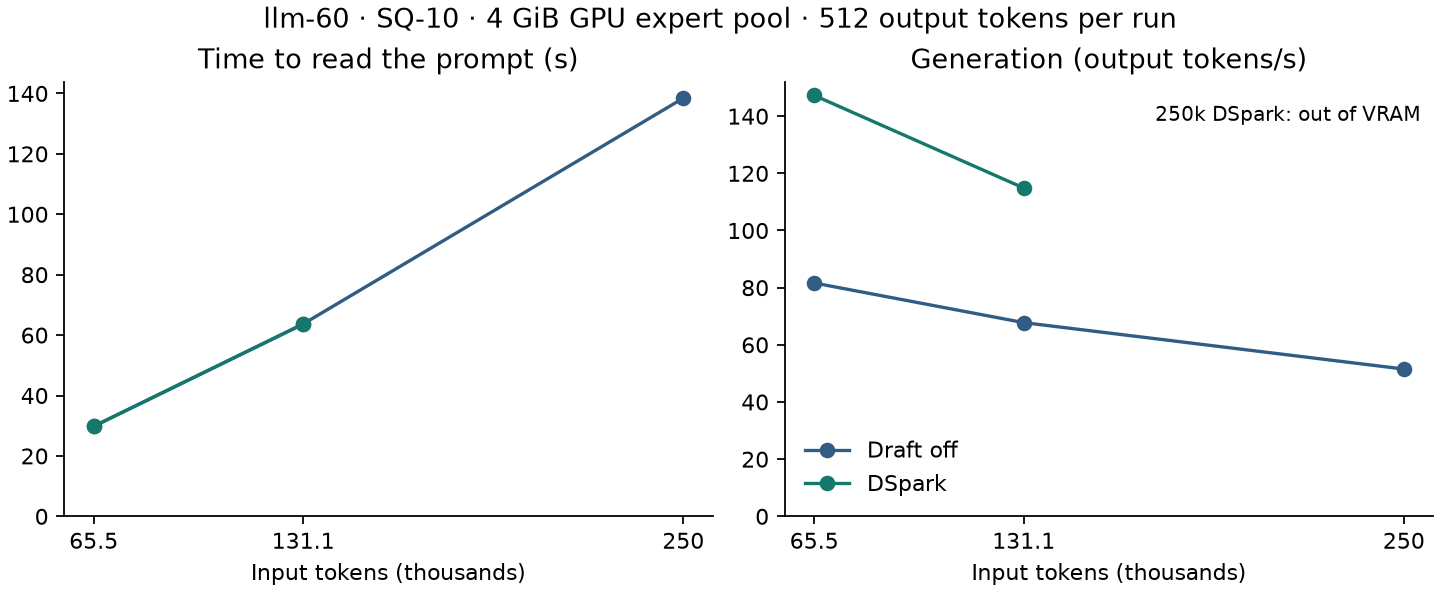
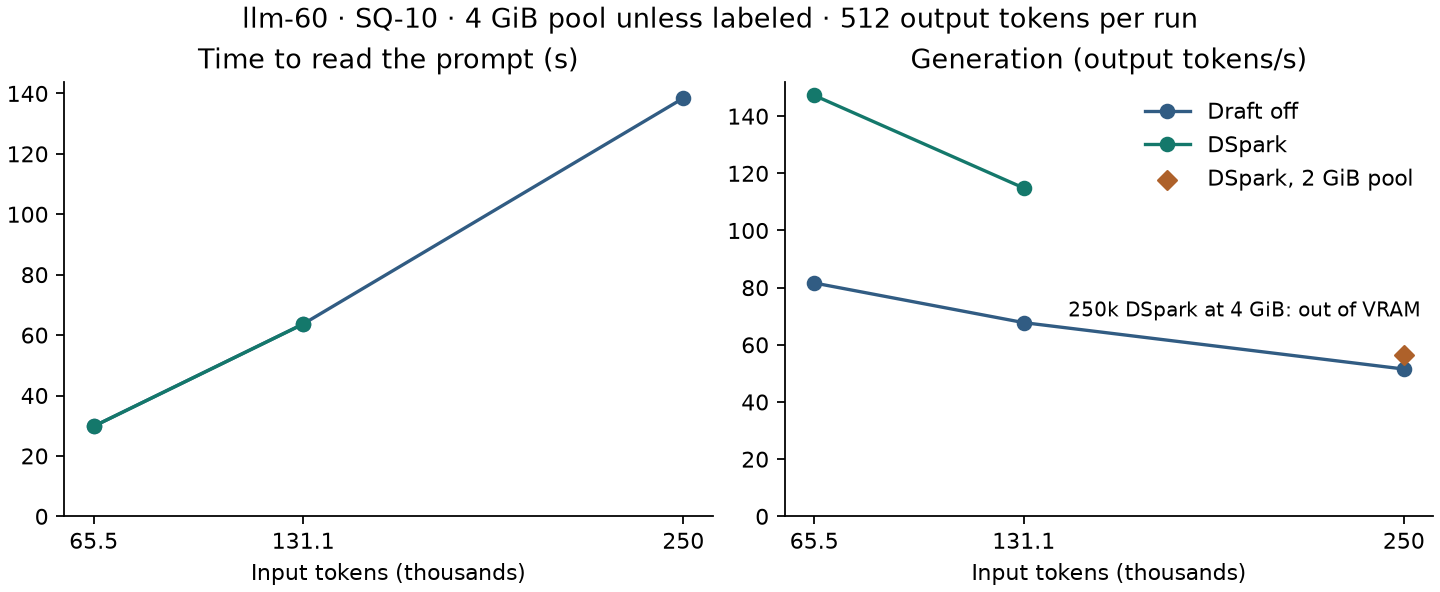
Show reduced-pool DSpark at 250k on context chart

diff --git a/docs/benchmarks/inkling/plot_dspark_context.py b/docs/benchmarks/inkling/plot_dspark_context.py
@@ -24,7 +24,11 @@ for ax, title in zip(axes, ('Time to read the prompt (s)', 'Generation (output t
     ax.set(title=title, xlabel='Input tokens (thousands)', xticks=[65.536,131.072,250],
            xticklabels=['65.5','131.1','250'], ylim=(0,None))
     ax.spines[['right','top']].set_visible(False)
-axes[1].legend(frameon=False)
-axes[1].text(.98, .91, '250k DSpark: out of VRAM', transform=axes[1].transAxes, ha='right', fontsize=9)
-fig.suptitle('llm-60 · SQ-10 · 4 GiB GPU expert pool · 512 output tokens per run')
+fallback = json.loads((base / 'dspark-250k-2gib.json').read_text())
+for ax, metric in zip(axes, ('prefill_s', 'generated_tps')):
+    ax.scatter(fallback['prompt'] / 1000, fallback[metric], marker='D',
+               color='#ae612a', label='DSpark, 2 GiB pool', zorder=3)
+axes[1].legend(frameon=False, loc='upper right')
+axes[1].text(.98, .46, '250k DSpark at 4 GiB: out of VRAM', transform=axes[1].transAxes, ha='right', fontsize=9)
+fig.suptitle('llm-60 · SQ-10 · 4 GiB pool unless labeled · 512 output tokens per run')
 fig.savefig(base/'dspark-context.png',dpi=160)
